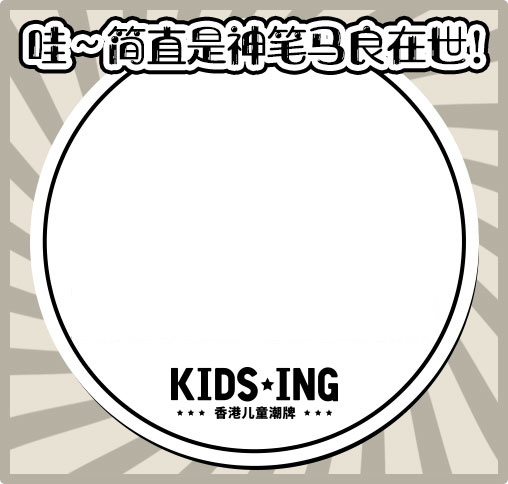
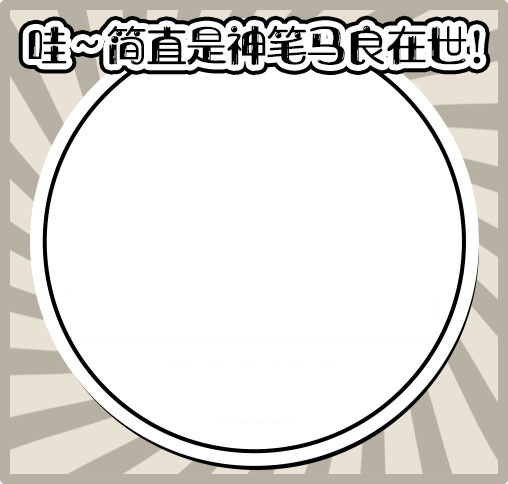
反馈修改

Changed region(s): [[0.3248, 0.7438, 0.6791, 0.8678]]

diff --git a/src/client/components/complete/complete.vue b/src/client/components/complete/complete.vue
@@ -5,6 +5,10 @@
     <img class="slogan" :src="slogan" alt="">
     <div class="input">
       <img :src="input" alt="">
+      <input v-model="name" type="text" placeholder="填写设计师名字">
+    </div>
+    <div class="input-name input">
+      <img :src="inputName" alt="">
       <input v-model="phone" type="number" placeholder="填写电话号码，作为后期认领凭证">
     </div>
     <button class="btn-done" @click="complete"><img :src="btnDone" alt=""></button>
@@ -21,6 +25,7 @@ import api from '@/client/api';
 const rebuild = require('../../assets/images/btn-rebuild.png');
 const slogan = require('../../assets/images/finish-slogan.png');
 const input = require('../../assets/images/input-bg.png');
+const inputName = require('../../assets/images/input_name.png');
 const btnDone = require('../../assets/images/btn-done.png');
 const shoe_left = require('../diy/images/shoe_left.svg');
 const workbg1 = require("../../assets/images/work-bg1.jpg");
@@ -37,13 +42,19 @@ export default {
       input,
       btnDone,
       shoe_left,
+      inputName,
       workbg: [workbg1, workbg2, workbg3, workbg4],
       phone: '',
+      name: '',
       workImg: '',
       uploaded: false,
       activityDetails: false,
       parts: ['front_part_1', 'front_part_2', 'front_part_3', 'front_part_4', 'front_part_5','left_part_2']
     };
+  },
+  created() {
+    this.name = unescape(Utils.getcookie('name'));
+    this.phone = Utils.getcookie('phone');
   },
   mounted() {
     const hash = (new Date()).getTime();
@@ -83,6 +94,8 @@ export default {
   },
   methods: {
     createWork() {
+      Utils.addcookie('name', this.name);
+      Utils.addcookie('phone', this.phone);
       Indicator.open('作品提交中...');
       const that = this;
       let canvas = document.getElementById("workCanvas"),
@@ -104,7 +117,7 @@ export default {
         // ctx.drawSvg(svg, 50*w_ratio, 110*w_ratio, 295*w_ratio, 190*w_ratio);
         // that.uploaded = true;
         // that.workImg = canvas.toDataURL("image/jpg");
-          // that.upload(); // 上传服务器
+        // that.upload(); // 上传服务器
         canvg(canvas, svg, {
           scaleWidth: w_ratio > 1 ? 351.6*w_ratio*0.65 : 351.6*w_ratio*0.7,
           scaleHeight: w_ratio > 1 ? 227.1*w_ratio*0.65 : 227.1*w_ratio*0.7,
@@ -131,6 +144,21 @@ export default {
           0,
           workbg.width * w_ratio,
           workbg.height * w_ratio);
+
+        ctx.fillStyle = "#000"; //设置笔触的颜色
+        ctx.font = "bold 24px '字体','字体','微软雅黑','宋体'";
+        ctx.textAlign = "left";
+        const txt = '设计师'; // 名字
+        const txt_w = ctx.measureText(txt).width;
+        ctx.fillText(txt, (508 - txt_w) / 2, 430 * w_ratio);
+
+        ctx.fillStyle = "#000"; //设置笔触的颜色
+        ctx.font = "bold 38px '字体','字体','微软雅黑','宋体'";
+        ctx.textAlign = "left";
+        const name = this.name; // 名字
+        const name_w = ctx.measureText(name).width;
+        ctx.fillText(name, (508 - name_w) / 2, 390 * w_ratio);
+        
         cb();
       };
       workbg.src = window.location.origin + this.workbg[Math.floor(Math.random()*4)];
@@ -147,17 +175,24 @@ export default {
       })
     },
     complete() {
-      if (/^\d{11}$/.test(this.phone.replace(/\s/g, ''))) {
-        this.createWork();
-      } else {
-        Toast('请输入正确的手机号码');
+      if (!/^\d{11}$/.test(this.phone.replace(/\s/g, ''))) {
+        return Toast('请填写正确的手机号码');
+        
       }
-
+      if (this.name.replace(/\s/g, '') == '') {
+        return Toast('请填写设计师姓名');
+      }
+      this.createWork();
     },
     upload() {
       // alert('upload');
+      debugger;
+      const xk = unescape(Utils.getcookie('right_part_3')) || '#ffffff';
+      const smile = unescape(Utils.getcookie('front_part_5')) || '#ffffff';
+      const logo = unescape(Utils.getcookie('back_part_1')) || '#ffffff';
+      const colorjson = `鞋扣: ${xk};微笑曲线: ${smile};logo: ${logo}`;
       api.updateUserInfo(this, {
-        real_name: 'username',
+        real_name: this.name,
         address: '',
         mobile: this.phone
       }, (response) => {
@@ -171,7 +206,8 @@ export default {
               back: window.back_side,
               right: window.right_side,
               left: window.left_side,
-              img_url: success2.body.url
+              img_url: success2.body.url,
+              color_json: colorjson
             }, (response) => {
               console.log(response)
               api.addImg(this, {

diff --git a/src/client/components/diy/diy.vue b/src/client/components/diy/diy.vue
@@ -138,7 +138,7 @@ export default {
       [{name: '右侧帮面', value: '', code: 'right_part_1'}/*, {name: '围条', value: '', code: 'right_part_2'}*/, {name: '鞋扣', value: '', code: 'right_part_3'}],
       [/*{name: '魔术贴', value: '', code: 'front_part_1'}, {name: '鞋头', value: '', code: 'front_part_2'}, {name: '包头片', value: '', code: 'front_part_3'}, {name: '鞋舌', value: '', code: 'front_part_4'}, */{name: '微笑曲线', value: '', code: 'front_part_5'}],
       [{name: 'LOGO', value: '', code: 'back_part_1'}/*, {name: '后跟条', value: '', code: 'back_part_2'}*/]],
-      colors: ['#2d3036', '#cd2a3e', '#2e3561', '#f1acb0', '#00926a']
+      colors: ['#2d3036', '#cd2a3e', '#2e3561', '#f1acb0', '#00926a'],
     };
   },
   computed: {
@@ -346,10 +346,10 @@ export default {
       if (this.currentPart == 'left_part_1' && this.uploadimgs[0] != 'null') {
         this.left_pos.x += ev.deltaX;
         this.left_pos.y += ev.deltaY;
-        $left.setAttribute('x', this.left_pos.x*0.1);
-        $left.setAttribute('y', this.left_pos.y*0.1);
-        Utils.addcookie('img_x', this.left_pos.x*0.1);
-        Utils.addcookie('img_y', this.left_pos.y*0.1);
+        $left.setAttribute('x', this.left_pos.x*0.06);
+        $left.setAttribute('y', this.left_pos.y*0.06);
+        Utils.addcookie('img_x', this.left_pos.x*0.06);
+        Utils.addcookie('img_y', this.left_pos.y*0.06);
       }
       if (this.currentPart == 'right_part_1' && this.uploadimgs[1] != 'null') {
         this.right_pos.x -= ev.deltaX;

diff --git a/src/client/components/rank/rank.vue b/src/client/components/rank/rank.vue
@@ -41,9 +41,12 @@
       </div>
     </div>
     <div class="work-preview" v-show="preview">
-      <img class="work" :src="thumb" alt="">
-      <button class="btn-close" @click="preview = false"><img :src="btnClose" alt=""></button>
+      <div class="work">
+        <img :src="thumb" alt="">
+        <button class="btn-close" @click="preview = false"><img :src="btnClose" alt=""></button>
+      </div>
     </div>
+    <button class="btn-home" @click="goRouter('home')"><img :src="btnHome" alt=""></button>
   <!-- </mt-loadmore> -->
   </div>
 </template>
@@ -63,6 +66,7 @@ const likeHim = require('../../assets/images/btn-like-him.png');
 const btnClose = require('../../assets/images/btn-close.png');
 const rankBg1 = require('../../assets/images/rank-bg_1.png');
 const rankBg2 = require('../../assets/images/rank-bg_2.png');
+const btnHome = require("../../assets/images/btn-home1.png");
 
 export default {
   name: 'rank',
@@ -81,6 +85,7 @@ export default {
       works: [],
       workid: '',
       thumb: '',
+      btnHome,
       preview: false,
       currentRank: 'like' // type=like就是点赞榜单,type=time就是新榜
     };
@@ -155,6 +160,22 @@ export default {
       this.thumb = img_url;
       this.preview = true;
     },
+
+    goRouter(route, id) {
+      if (id) {
+        this.$router.push({
+          name: route,
+          params: {
+            id: id
+          }
+        })
+      } else {
+        this.$router.push({
+          name: route
+        })
+      }
+      
+    }
   },
   watch: {
 

diff --git a/src/client/components/myWork/my-work.vue b/src/client/components/myWork/my-work.vue
@@ -37,9 +37,12 @@
       </div>
     </div>
     <div class="work-preview" v-show="preview">
-      <img class="work" :src="thumb" alt="">
-      <button class="btn-close" @click="preview = false"><img :src="btnClose" alt=""></button>
+      <div class="work">
+        <img :src="thumb" alt="">
+        <button class="btn-close" @click="preview = false"><img :src="btnClose" alt=""></button>
+      </div>
     </div>
+    <button class="btn-home" @click="goRouter('home')"><img :src="btnHome" alt=""></button>
   </div>
 </template>
 
@@ -56,6 +59,7 @@ const gocreate = require('../../assets/images/go-create.png');
 const btnClose = require('../../assets/images/btn-close.png');
 const rankBg1 = require('../../assets/images/rank-bg_1.png');
 const rankBg2 = require('../../assets/images/rank-bg_2.png');
+const btnHome = require("../../assets/images/btn-home1.png");
 
 export default {
   name: 'my-work',
@@ -70,6 +74,7 @@ export default {
       rankBg2,
       works: [],
       thumb: '',
+      btnHome,
       preview: false
     };
   },

diff --git a/src/client/components/complete/style.scss b/src/client/components/complete/style.scss
@@ -11,7 +11,7 @@
 
   .slogan {
     display: block;
-    margin: px2rem(70) auto;
+    margin: px2rem(40) auto px2rem(20);
     width: px2rem(521);
     height: px2rem(184);
 
@@ -22,16 +22,25 @@
 
   .btn-done {
     display: block;
-    margin: 0 auto px2rem(57);
+    margin: px2rem(40) auto px2rem(57);
     width: px2rem(522);
     height: px2rem(122);
   }
 
   .input {
     position: relative;
-    margin: px2rem(40) auto px2rem(60);
+    margin: px2rem(20) auto px2rem(20);
     width: px2rem(533);
     height: px2rem(151);
+
+    &.input-name{
+      width: px2rem(533);
+      height: px2rem(97);
+
+      input {
+        top: px2rem(5);
+      }
+    }
 
     img {
       display: block;
@@ -49,6 +58,7 @@
       font-size: px2rem(30);
       border: 0;
       background: transparent;
+      text-align: center;
     }
   }
   .left-container {

diff --git a/src/client/components/myWork/style.scss b/src/client/components/myWork/style.scss
@@ -1,6 +1,15 @@
 @import '../../assets/style/mixins/_mixins.scss';
 
 .my-work-page {
+  .btn-home {
+    position: fixed;
+    right: - px2rem(4);
+    top: px2rem(344);
+    width: px2rem(117);
+    height: px2rem(65);
+    z-index: 10;
+  }
+
   .rank-container {
     padding-top: px2rem(80);
     padding-bottom: px2rem(40);
@@ -169,16 +178,16 @@
       top: 50%;
       left: 50%;
       transform: translate(-50%, -50%);
-      width: px2rem(500);
-      height: px2rem(460);
+      width: 80%;
+      
+      > img {
+        width: 100%;
+      }
     }
 
     .btn-close {
       display: block;
-      position: absolute;
-      top: 50%;
-      left: 50%;
-      transform: translate(-50%, px2rem(260));
+      margin: px2rem(20) auto;
       width: px2rem(64);
       height: px2rem(64);
     }

diff --git a/src/client/components/rank/style.scss b/src/client/components/rank/style.scss
@@ -7,6 +7,15 @@
 .rank-page {
   width: 100%;
 
+  .btn-home {
+    position: fixed;
+    right: - px2rem(4);
+    top: px2rem(344);
+    width: px2rem(117);
+    height: px2rem(65);
+    z-index: 10;
+  }
+
   .rank-container {
     padding-bottom: px2rem(40);
   }
@@ -169,16 +178,16 @@
       top: 50%;
       left: 50%;
       transform: translate(-50%, -50%);
-      width: px2rem(500);
-      height: px2rem(460);
+      width: 80%;
+
+      > img {
+        width: 100%;
+      }
     }
 
     .btn-close {
       display: block;
-      position: absolute;
-      top: 50%;
-      left: 50%;
-      transform: translate(-50%, px2rem(260));
+      margin: px2rem(20) auto;
       width: px2rem(64);
       height: px2rem(64);
     }

diff --git a/src/client/components/share/share.vue b/src/client/components/share/share.vue
@@ -37,7 +37,7 @@ const canvasbg = require("../../assets/images/canvas-bg.jpg");
 const btnCreate = require("../../assets/images/btn-create.png");
 const btnMore = require("../../assets/images/btn-invite-more.png");
 const pen = require("../../assets/images/icon-pen.png");
-const slogan = require("../../assets/images/slogan3.png");
+const slogan = require("../../assets/images/slogan2.png");
 const btnHome = require("../../assets/images/btn-home1.png");
 const haibaobg = require("../../assets/images/canvas-bg.jpg");
 

diff --git a/src/client/api/index.js b/src/client/api/index.js
@@ -17,7 +17,7 @@ function putApi(name, url, code, method) {
     httpmethod = 'post';
   }
   api[name] = (context, body, fun, funErr) => {
-    // const fullurl = `http://192.168.1.103/kids/${url}`;
+    // const fullurl = `http://192.168.1.123/kids/${url}`;
     // const fullurl = `http://172.20.10.5/kids/${url}`;
     const fullurl = `/kids/${url}`;
     context.$http[httpmethod](fullurl, getCreds(code, body))

diff --git a/index.html b/index.html
@@ -7,7 +7,7 @@
 <head>
   <meta charset="utf-8">
   <meta name="viewport" content="width=device-width,initial-scale=1.0 minimum-scale=1.0, maximum-scale=1.0">
-<title>DIY童鞋定制大赛</title>
+<title>KIDS.ING双十一童鞋定制大赛</title>
   <script>
     document.querySelector('html').style.fontSize = (window.innerWidth / 750 * 28) + 'px';
 

diff --git a/src/client/components/share/style.scss b/src/client/components/share/style.scss
@@ -6,7 +6,6 @@
     display: block;
     margin: px2rem(40) auto px2rem(20);
     width: px2rem(521);
-    height: px2rem(262);
   }
 
   .btn-home {
